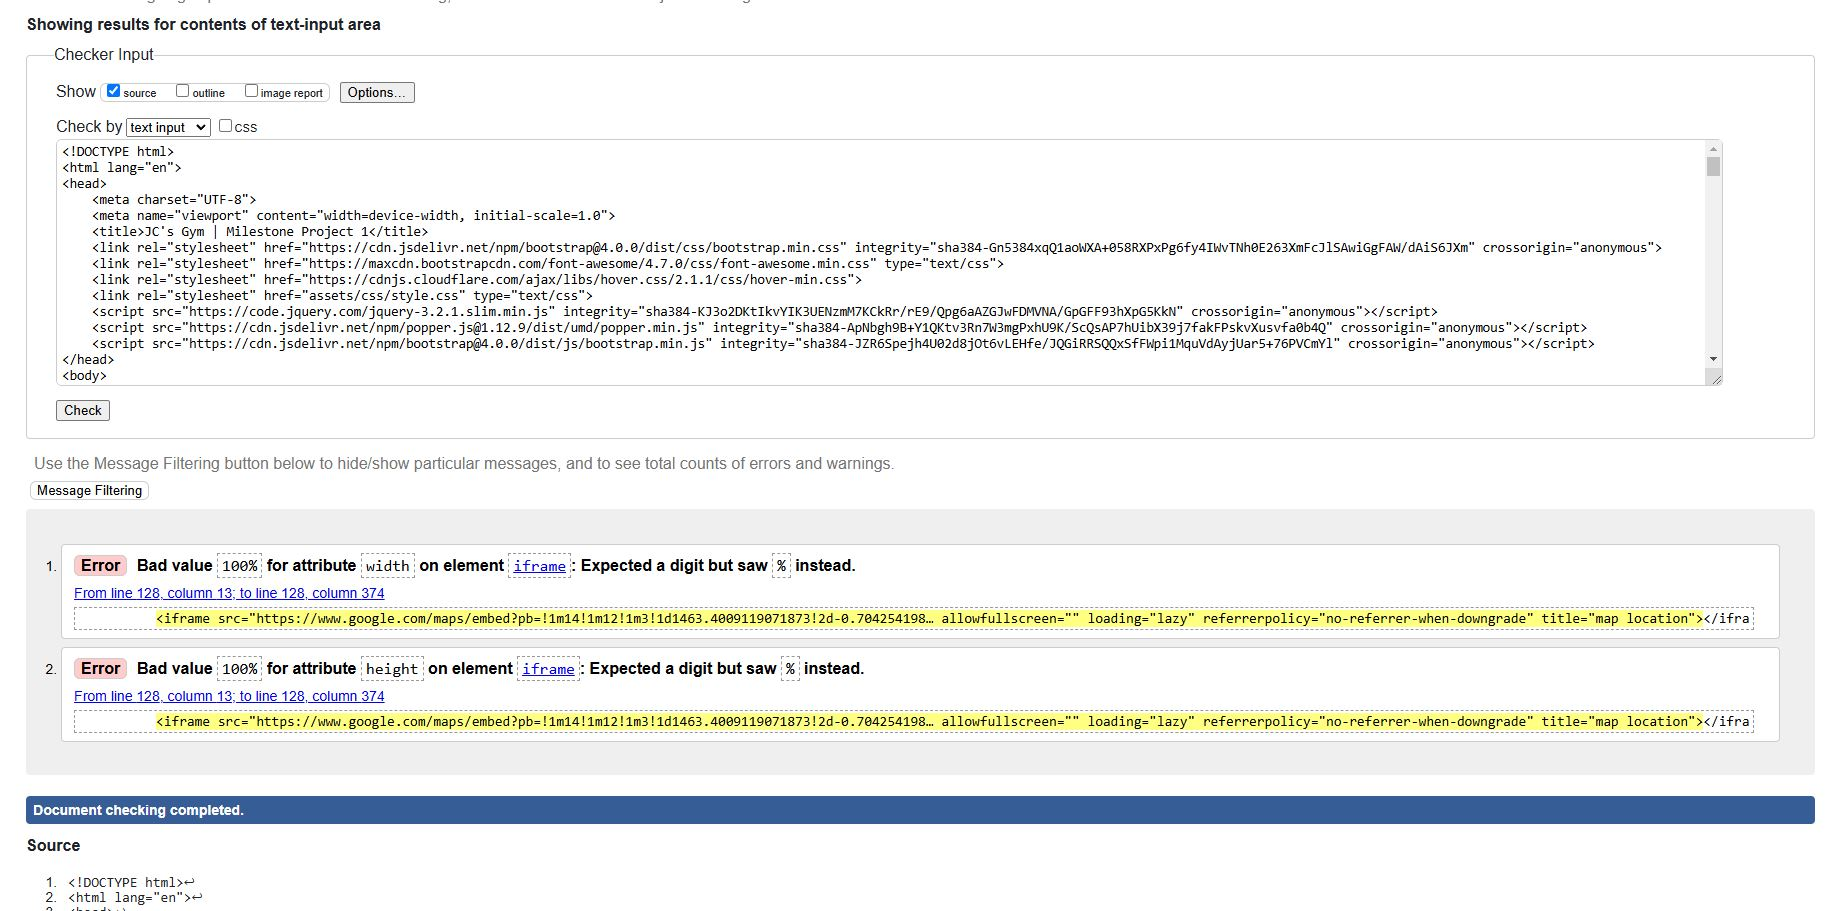
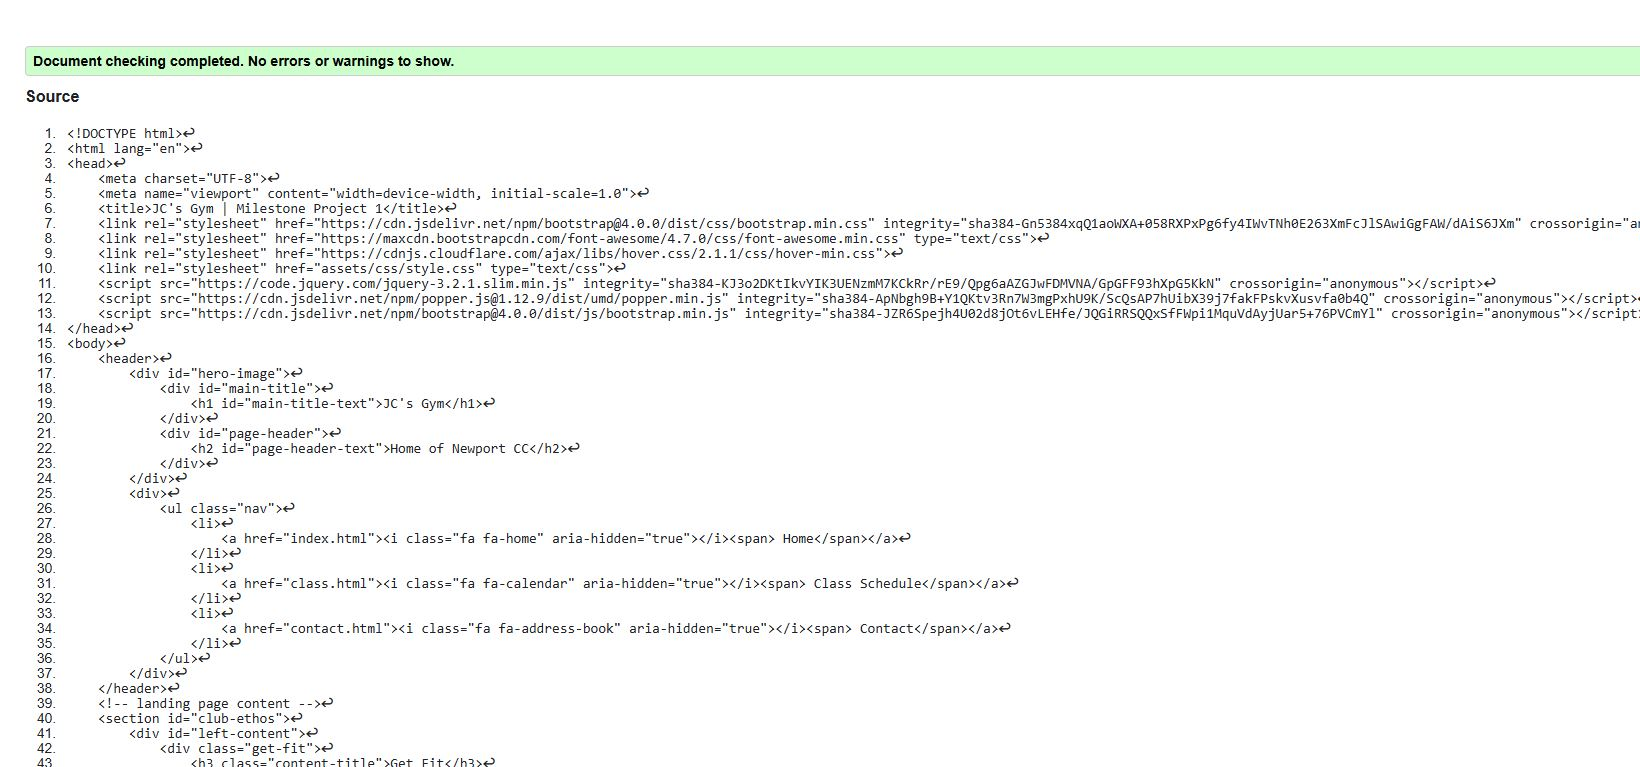
add screenshot of index_validation

Changed region(s): [[0.0, 0.0, 1.0, 0.8396], [0.0, 0.8396, 0.9951, 1.0]]

diff --git a/index.html b/index.html
@@ -119,7 +119,7 @@
     </section>
     <!-- location map -->
     <div id="map">
-        <iframe src="https://www.google.com/maps/embed?pb=!1m14!1m12!1m3!1d1463.4009119071873!2d-0.7042541988002367!3d53.760295308592774!2m3!1f0!2f0!3f0!3m2!1i1024!2i768!4f13.1!5e1!3m2!1sen!2suk!4v1718126728486!5m2!1sen!2suk" width="100%" height="100%" style="border:0;" allowfullscreen="" loading="lazy" referrerpolicy="no-referrer-when-downgrade" title="map location"></iframe>
+        <iframe src="https://www.google.com/maps/embed?pb=!1m14!1m12!1m3!1d1463.4009119071873!2d-0.7042541988002367!3d53.760295308592774!2m3!1f0!2f0!3f0!3m2!1i1024!2i768!4f13.1!5e1!3m2!1sen!2suk!4v1718126728486!5m2!1sen!2suk" width="100" height="100" style="border:0;" allowfullscreen="" loading="lazy" referrerpolicy="no-referrer-when-downgrade" title="map location"></iframe>
     </div>
     <!-- footer -->
     <footer>
